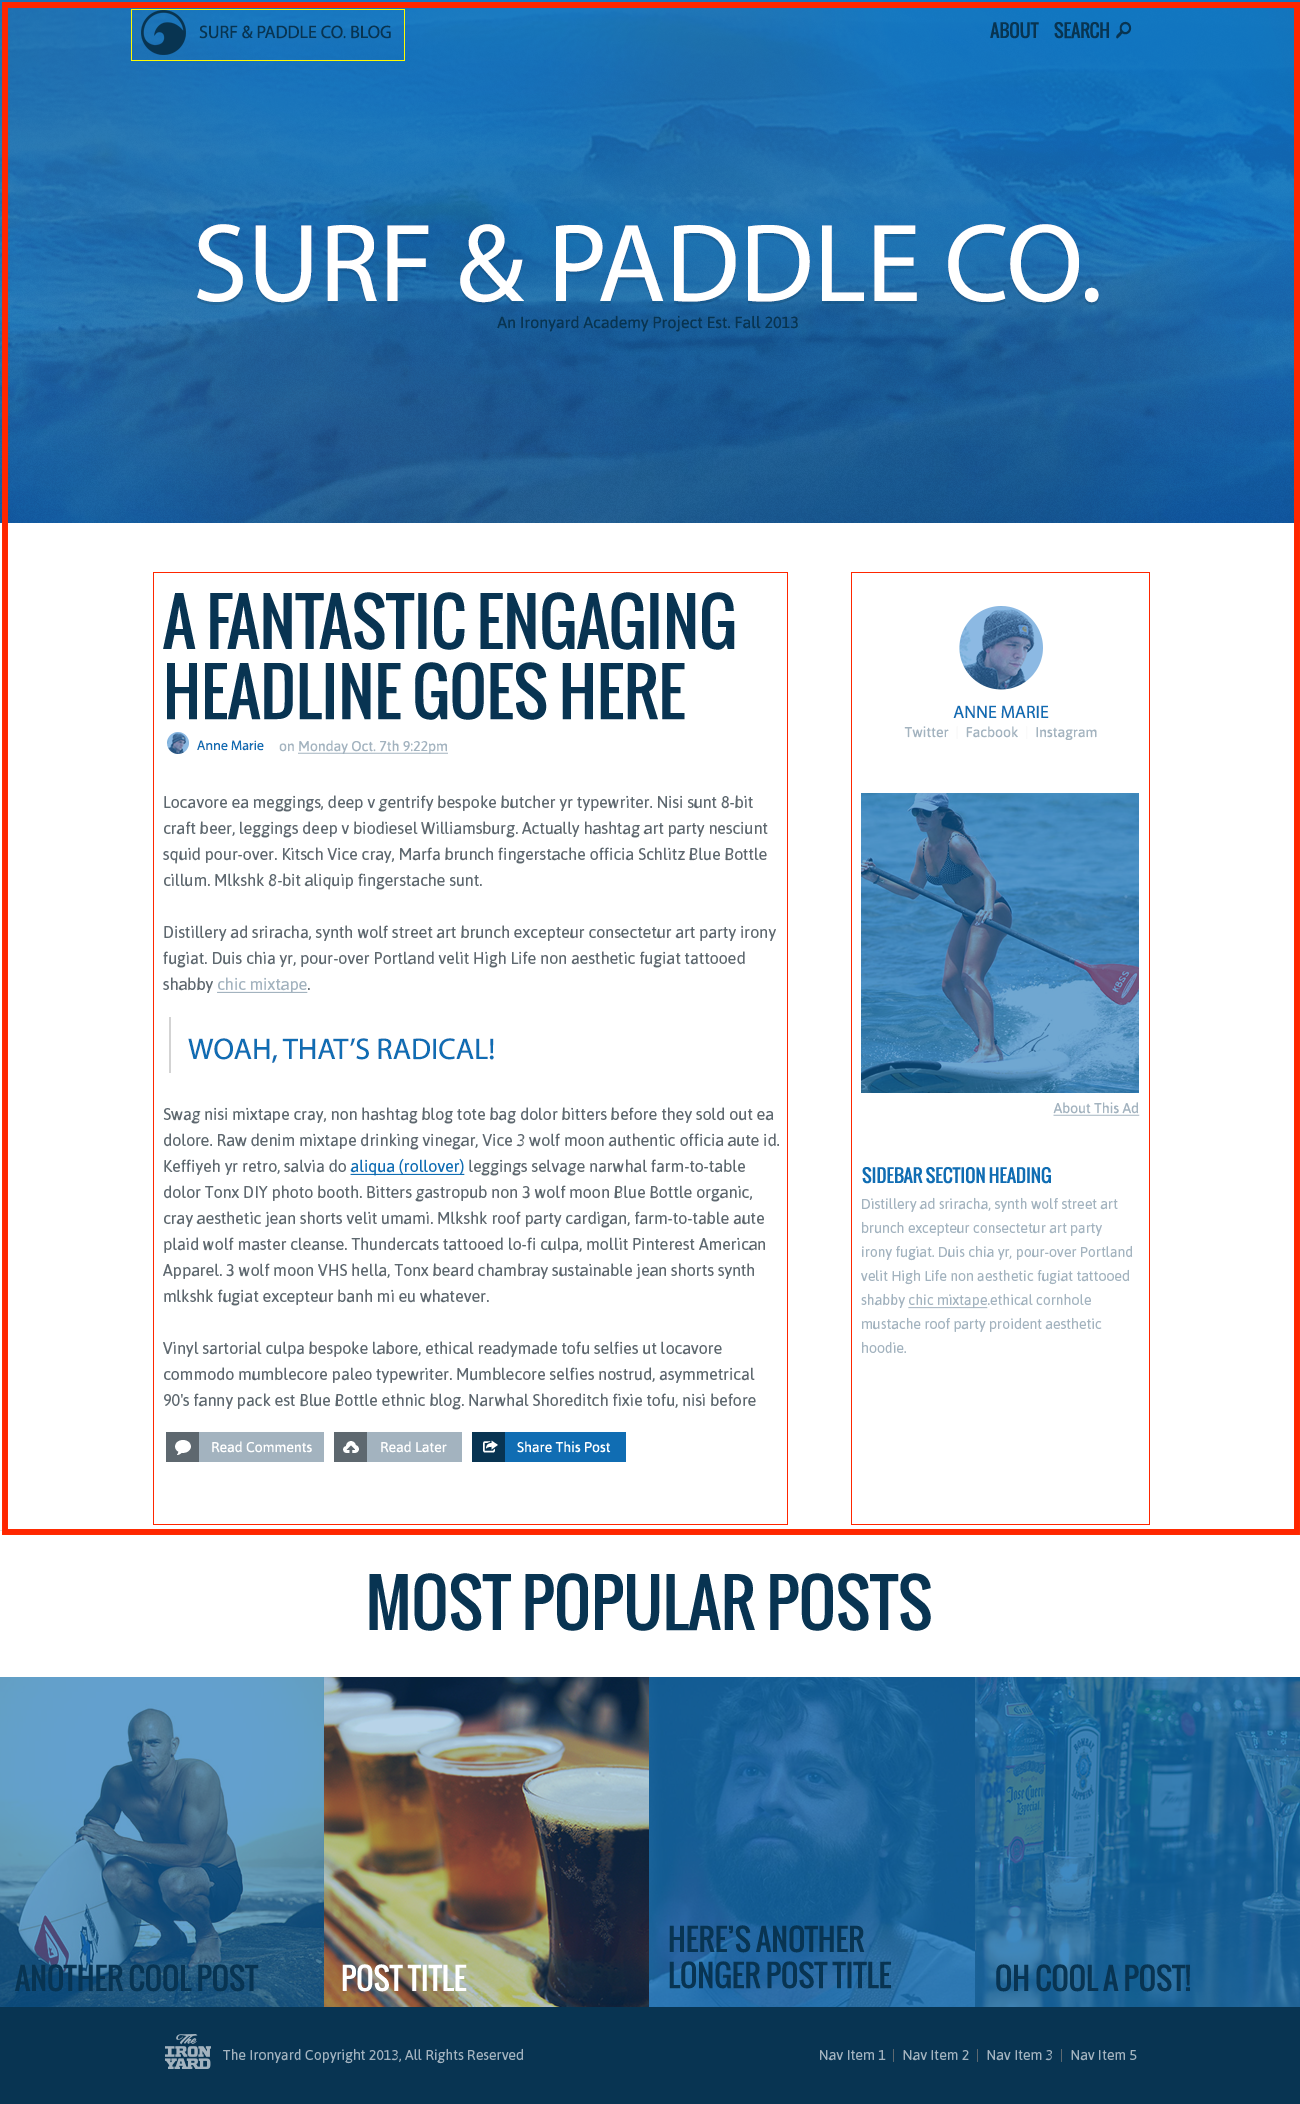
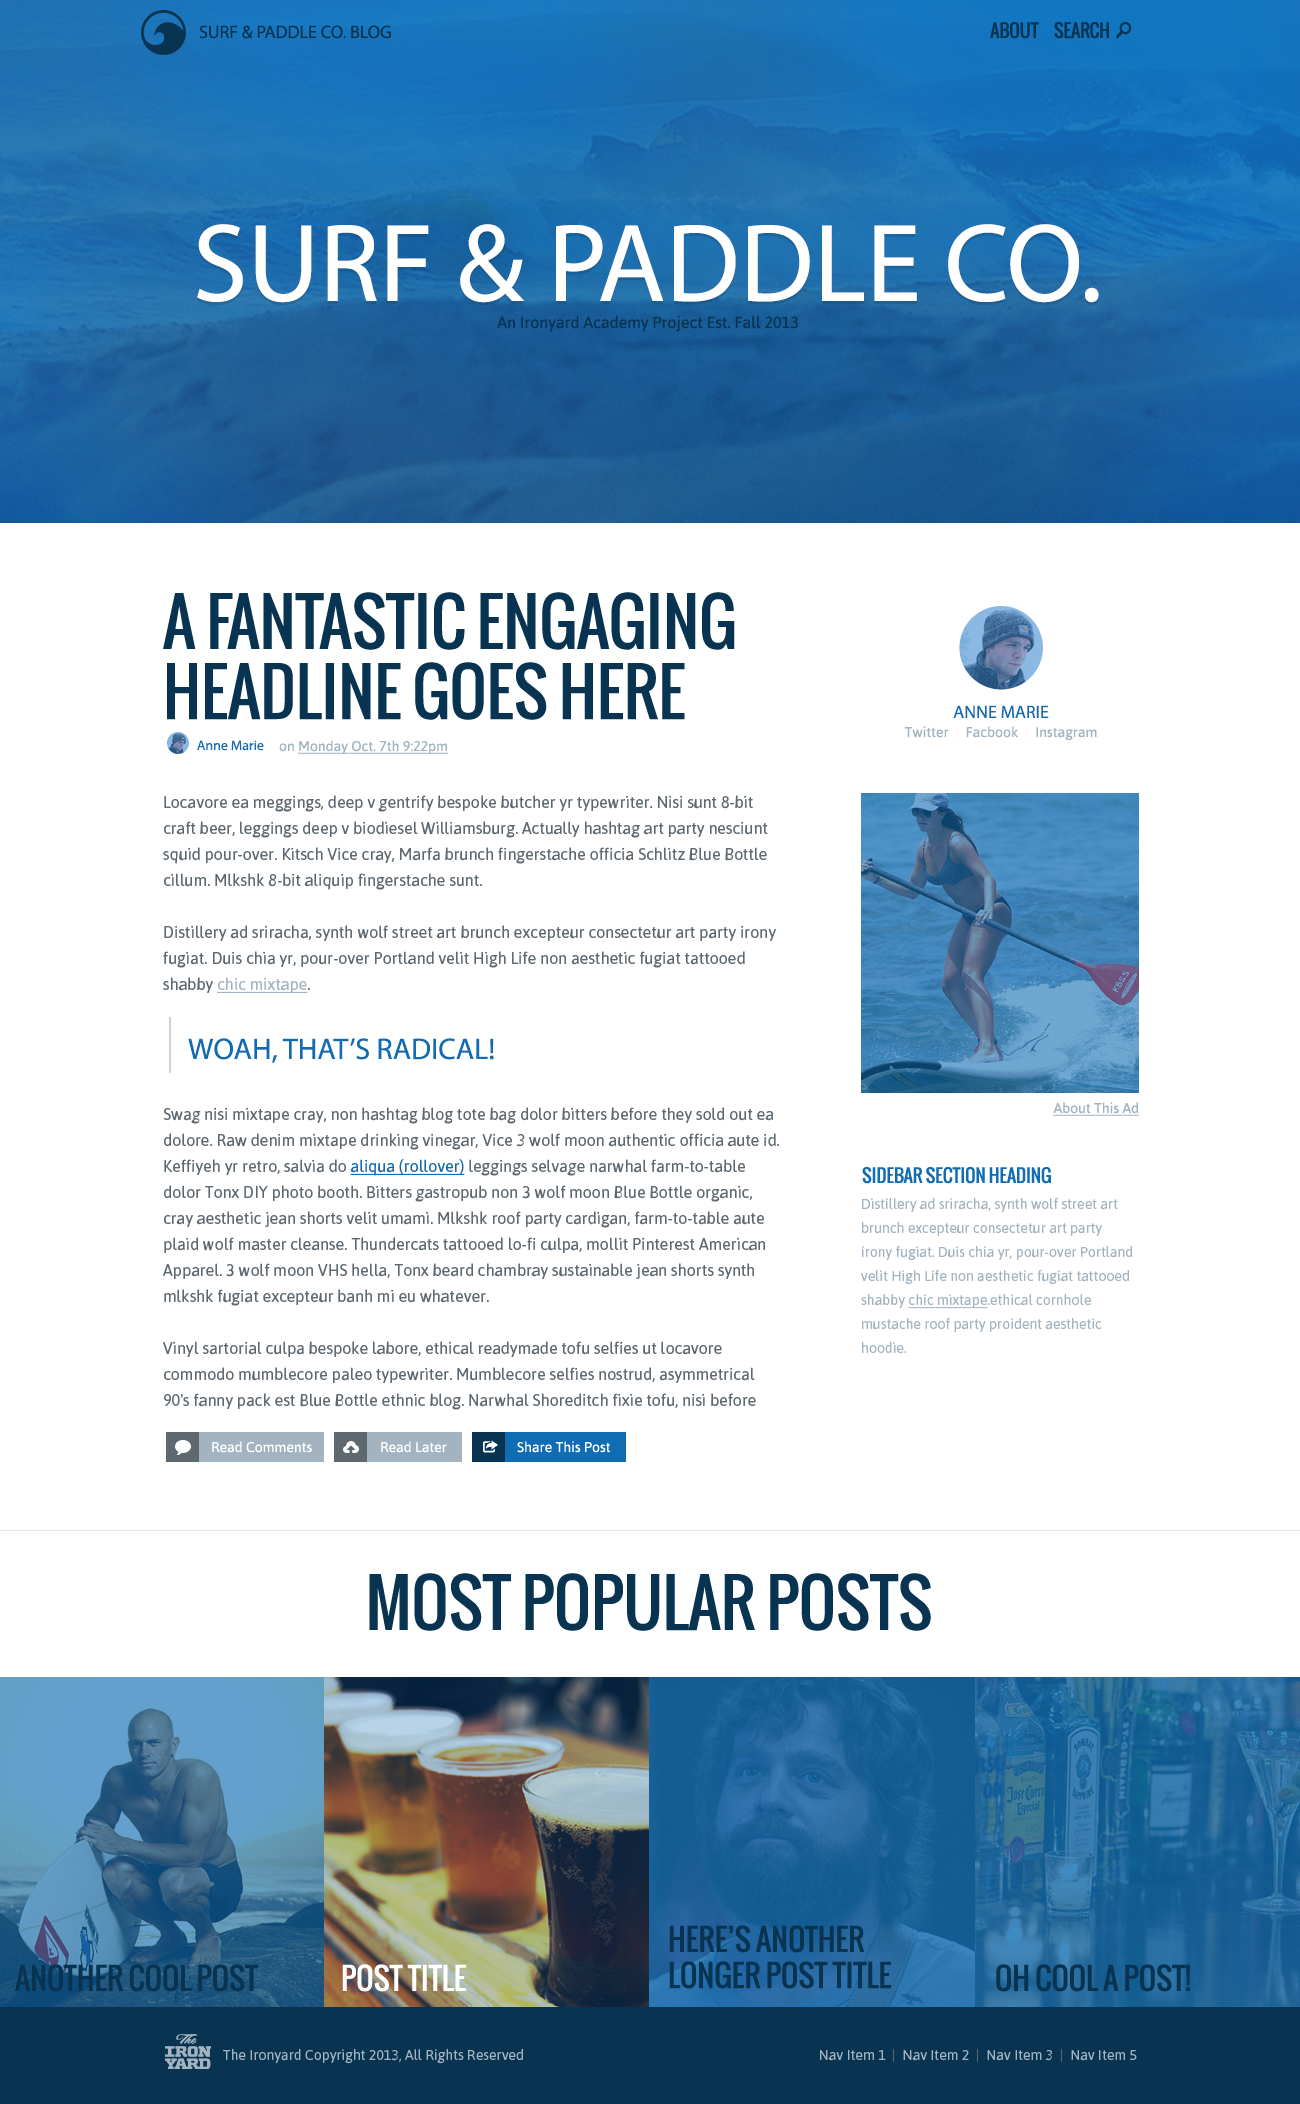
working on left column

diff --git a/index.html b/index.html
@@ -1,30 +1,62 @@
 <!DOCTYPE html>
 <html>
+
   <head>
     <meta charset="utf-8">
     <link href='https://fonts.googleapis.com/css?family=Oswald|Open+Sans' rel='stylesheet' type='text/css'>
+    <link rel="stylesheet" href="reset.css">
     <link rel="stylesheet" href="styles.css">
     <title>1.4 Pixel Perfect</title>
   </head>
+
   <body>
 
     <div class="container">
       <header>
         <nav>
           <div class="branding">
-            <img class="logo" src="logo.png">
-            <span>Surf &amp; Paddle Co. Blog</span>
+            <img class="logo" src="images/logo.png">
+            <span class="logo-title">Surf &amp; Paddle Co. Blog</span>
           </div>
-          <div class="utility-nav">
+
+          <ul class="utility-nav">
             <a href="#">About</a>
-            <a href="#">Search><img class="search-icon" src=""/></a>
+            <a href="#">Search<img class="search-icon" src="images/search.png"/></a>
+            <div class="clear-fix"></div>
+          </ul>
         </nav>
 
         <h1>Surf &amp; Paddle Co.</h1>
-        <h3>An Iron Yard Academy Project</h3>
+        <h3>An Iron Yard Academy Project Est. Spring 2016</h3>
       </header>
 
-      <section></section>
+      <article>
+        <section>
+          <h2>A FANTASTIC ENGAGING HEADLINE GOES HERE</h2>
+          <div="author-info">
+            <img class="author-image" src="images/author.jpg">
+            <span class="author-name">Anne Marie</span>
+            <span class="on">on</span>
+            <a href="#">Monday Oct. 7th 9:22pm</a>
+          </div>
+          <p>Filter café au lait, white trifecta decaffeinated beans sit espresso. Percolator filter robust roast aromatic, americano whipped redeye grounds redeye black macchiato. Strong, at white skinny instant body cultivar caffeine single origin barista cortado single origin. Froth mug acerbic, seasonal eu wings body robust arabica shop. Strong, at white skinny instant body cultivar caffeine single origin barista cortado single origin. Froth mug acerbic, seasonal eu wings body robust arabica shop.</p>
+          <p>Filter café au lait, white trifecta decaffeinated beans sit espresso. Percolator filter robust roast aromatic, americano whipped redeye grounds redeye black macchiato. Strong, at white skinny instant body cultivar caffeine single origin barista cortado single origin. Froth mug acerbic, seasonal eu wings body robust arabica shop.<a href="#">chic mixtape</a></p>
+          <aside class="woah-exclamation">woah, that's radical!</aside>
+          <p>So get a witch's shawl on a broomstick you can crawl on. Were gonna pay a call on the Addams Family. Come and dance on our floor. Take a step that is new. We've a loveable space that needs your face threes company too. The first mate and his Skipper too will do their very best to make the others comfortable in their tropic island nest. Goodbye gray sky hello blue. There's nothing can hold me when I hold you. Feels so right it cant be wrong. Rockin' and rollin' all week long. Well the first thing you know ol' Jeds a millionaire. Kinfolk said Jed move away from there.; But they got diff'rent strokes. It takes diff'rent strokes - it takes diff'rent strokes to move the world.</p>
+          <p>Michael Knight a young loner on a crusade to champion the cause of the innocent. The helpless. The powerless in a world of criminals who operate above the law. Now the world don't move to the beat of just one drum. What might be right for you may not be right for some?</p>
+          <div>
+            <i class="fa fa-comment-o"></i>
+            <span>Read Comments</span>
+            <i class="fa fa-cloud-upload"></i>
+            <span>Read Later</span>
+            <i class="fa fa-share-square"></i>
+            <span>Share This Post</span>
+          </div>
+        </section>
+
+        <section>
+        </section>
+      </article>
 
       <footer></footer>
     </div>

diff --git a/styles.css b/styles.css
@@ -14,7 +14,7 @@ h3{
 }
 
 header{
-  background: #FFF url('http://unsplash.it/1300/250') no-repeat;
+  background: #FFF url('https://images.unsplash.com/photo-1452723312111-3a7d0db0e024?ixlib=rb-0.3.5&q=80&fm=jpg&crop=entropy&s=774e99d16e3f3f0e4138be9d98e4f0f9') no-repeat;
   background-size: cover;
   height: 523px;
   position: relative; /*for absolutely positioned children*/
@@ -40,3 +40,75 @@ header h1,
 header h3{
   text-align: center;
 }
+
+header h1{
+  text-transform: uppercase;
+  top: 216px;
+  font-size: 87px;
+  letter-spacing: 15px;
+}
+
+header h3{
+  top: 228px;
+  font-size: 12px;
+  letter-spacing: 2px;
+  left: -3px;
+}
+
+/*
+ * NAV CONTAINER  --> contains branding and utility-nav
+ */
+
+nav{
+  position: relative;
+  padding-left: 134px;
+  padding-right: 156px;
+  padding-top: 4px;
+}
+
+.branding{
+  display: inline-block;
+  position: absolute;
+}
+
+.logo-title{
+  display: inline-block;
+  position: absolute;
+  width: 200px;
+  left: 61px;
+  bottom: 20px;
+  text-transform: uppercase;
+}
+
+.utility-nav{
+  display: inline-block;
+  position: absolute;
+  left: 986px;
+  top: 11px;
+  text-transform: uppercase;
+  font-size: 21px;
+}
+
+.utility-nav a{
+  /*display: inline-block;*/
+  /*position: absolute;*/
+  text-decoration: none;
+  color: rgb(0,51,82);
+}
+
+.search-icon{
+  display: inline-block;
+  position: absolute;
+  margin: 0 auto;
+  height: 23.64px;
+  bottom: 1px;
+}
+
+
+.clear-fix{       /*clears any floats for following elements*/
+  clear: both;
+}
+
+/*
+ * ARTICLE CONTAINER
+ */

diff --git a/reset.css b/reset.css
@@ -1,0 +1,48 @@
+/* http://meyerweb.com/eric/tools/css/reset/
+   v2.0 | 20110126
+   License: none (public domain)
+*/
+
+html, body, div, span, applet, object, iframe,
+h1, h2, h3, h4, h5, h6, p, blockquote, pre,
+a, abbr, acronym, address, big, cite, code,
+del, dfn, em, img, ins, kbd, q, s, samp,
+small, strike, strong, sub, sup, tt, var,
+b, u, i, center,
+dl, dt, dd, ol, ul, li,
+fieldset, form, label, legend,
+table, caption, tbody, tfoot, thead, tr, th, td,
+article, aside, canvas, details, embed,
+figure, figcaption, footer, header, hgroup,
+menu, nav, output, ruby, section, summary,
+time, mark, audio, video {
+	margin: 0;
+	padding: 0;
+	border: 0;
+	font-size: 100%;
+	font: inherit;
+	vertical-align: baseline;
+}
+/* HTML5 display-role reset for older browsers */
+article, aside, details, figcaption, figure,
+footer, header, hgroup, menu, nav, section {
+	display: block;
+}
+body {
+	line-height: 1;
+}
+ol, ul {
+	list-style: none;
+}
+blockquote, q {
+	quotes: none;
+}
+blockquote:before, blockquote:after,
+q:before, q:after {
+	content: '';
+	content: none;
+}
+table {
+	border-collapse: collapse;
+	border-spacing: 0;
+}
